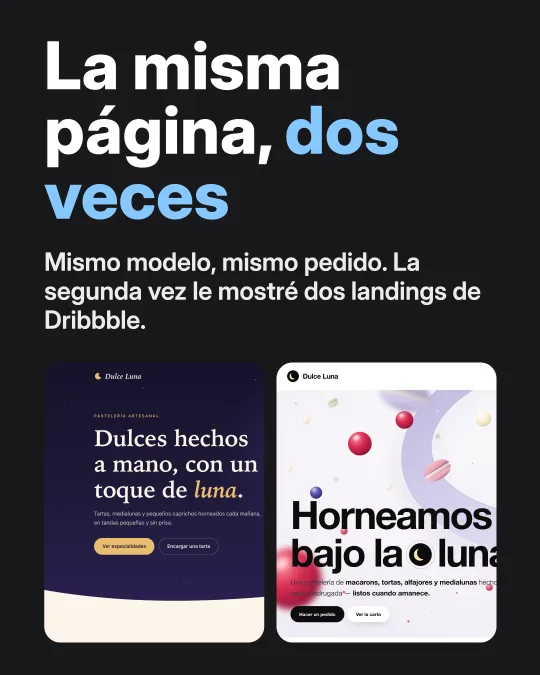
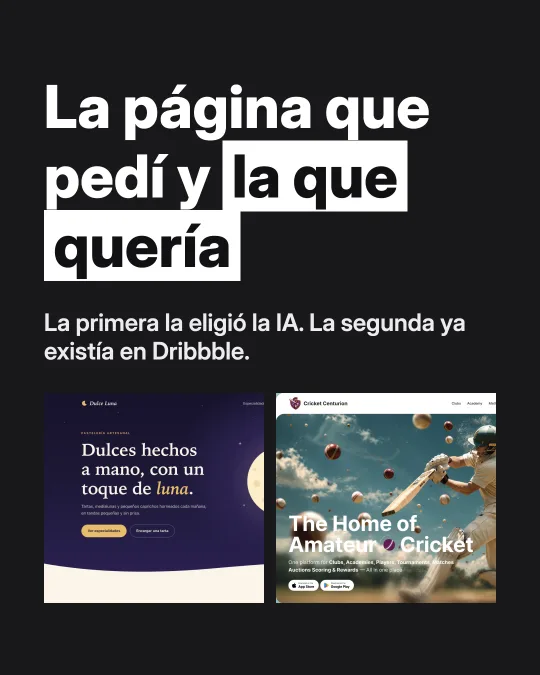
Material con el calendario del 10/11: Háblale sale el 11 a las 10:08, Primer día el 16 a las 10:12, carrusel v4 «La página que pedí y la que quería»

diff --git a/src/data/material.ts b/src/data/material.ts
@@ -30,23 +30,23 @@ export const MATERIAL: Material[] = [
   {
     slug: 'la-misma-pagina-dos-veces',
     kind: 'carrusel',
-    title: 'La misma página, dos veces',
-    summary: 'Los dos pedidos exactos y las dos páginas que salieron, para que lo pruebes con tu propio proyecto.',
+    title: 'La página que pedí y la que quería',
+    summary: 'El pedido exacto, la página que eligió la IA y la de Dribbble que yo tenía en la cabeza. Y lo que salió cuando se la mostré.',
     date: '2026-11-11T11:06:00-03:00',
     where: 'Carrusel de LinkedIn',
-    cover: { src: '/material/la-misma-pagina-dos-veces/con-referencias.webp', width: 1440, height: 900, alt: 'La página que salió cuando le mostré dos páginas de Dribbble' },
+    cover: { src: '/material/la-misma-pagina-dos-veces/con-referencias.webp', width: 1440, height: 900, alt: 'La página de Dulce Luna que salió cuando le mostré lo que quería' },
     poster: { src: '/material/la-misma-pagina-dos-veces/portada.webp', width: 540, height: 675 },
     blocks: [
-      { type: 'texto', text: 'Le pedí a Claude Fable 5.2 la página de una pastelería inventada, Dulce Luna. Mismo modelo y mismo pedido, en dos chats nuevos. La única diferencia: en el segundo le pasé capturas de dos páginas de Dribbble que me encantan y le dije qué copiar de cada una.' },
-      { type: 'pedido', label: 'Pedido 1, solo con palabras', text: 'Hazme una página web linda para mi pastelería, Dulce Luna. Un solo archivo HTML, sin imágenes externas.' },
-      { type: 'vista', title: 'Lo que salió', src: '/material/la-misma-pagina-dos-veces/con-palabras.webp', href: '/material/la-misma-pagina-dos-veces/con-palabras.html', width: 1440, height: 900, alt: 'Página morada con una luna y estrellas, elegidas por el modelo' },
-      { type: 'pedido', label: 'Pedido 2, con las capturas', text: 'Hazme una página web linda para mi pastelería, Dulce Luna. Un solo archivo HTML, sin imágenes externas. Te paso capturas de dos páginas de Dribbble que me encantan: ref1.jpg, y ref2a.png con ref2b.png (son dos momentos de la misma página, el objeto gira). Están en esta carpeta, míralas bien. De la primera copia la escena a pantalla completa con cosas que vuelan alrededor en distintas profundidades y el título enorme encima, con una tarjeta flotando al costado. De la segunda copia el objeto 3D que gira solo, el fondo limpio y los botones negros. Que se mueva como ellas. Guárdala como pagina.html en esta carpeta.' },
-      { type: 'vista', title: 'Lo que salió', src: '/material/la-misma-pagina-dos-veces/con-referencias.webp', href: '/material/la-misma-pagina-dos-veces/con-referencias.html', width: 1440, height: 900, alt: 'Página clara con un macaron que gira, dulces que vuelan alrededor, el título enorme y una caja de macarons flotando al costado' },
-      { type: 'enlaces', title: 'Las dos páginas que le mostré', links: [
-        { label: 'Cricket Centurion, de Nixtio', href: 'https://dribbble.com/shots/27839193-Cricket-Sports-Landing-Page-Design', note: 'la escena a pantalla completa y la tarjeta flotando' },
-        { label: 'IPO Gateway, de FANCY', href: 'https://dribbble.com/shots/27850249-IPO-Gateway-landing-page-web-design-3D-animation-website-icons', note: 'el objeto 3D que gira y los botones negros' },
+      { type: 'texto', text: 'Le pedí a Claude Fable 5.2 la página de una pastelería inventada, Dulce Luna. Una frase y nada más. Me dio una página linda, pero con los colores y la idea que eligió el modelo, no la que yo tenía en la cabeza.' },
+      { type: 'pedido', label: 'Lo que le pedí', text: 'Hazme una página web linda para mi pastelería, Dulce Luna. Un solo archivo HTML, sin imágenes externas.' },
+      { type: 'vista', title: 'Lo que eligió la IA', src: '/material/la-misma-pagina-dos-veces/con-palabras.webp', href: '/material/la-misma-pagina-dos-veces/con-palabras.html', width: 1440, height: 900, alt: 'Página morada con una luna y estrellas, elegidas por el modelo' },
+      { type: 'enlaces', title: 'Lo que yo quería ya existía', links: [
+        { label: 'Cricket Centurion, de Nixtio', href: 'https://dribbble.com/shots/27839193-Cricket-Sports-Landing-Page-Design', note: 'la escena a pantalla completa, cosas que vuelan y el título enorme' },
+        { label: 'IPO Gateway, de FANCY', href: 'https://dribbble.com/shots/27850249-IPO-Gateway-landing-page-web-design-3D-animation-website-icons', note: 'el objeto que gira solo y los botones negros' },
       ] },
-      { type: 'texto', text: 'Antes de pedir un diseño junto capturas de lo que me gusta y le digo qué copiar de cada una. Si no sabes explicarlo, muéstraselo.' },
+      { type: 'pedido', label: 'Se las mostré y le dije qué copiar', text: 'Hazme una página web linda para mi pastelería, Dulce Luna. Un solo archivo HTML, sin imágenes externas. Te paso capturas de dos páginas de Dribbble que me encantan: ref1.jpg, y ref2a.png con ref2b.png (son dos momentos de la misma página, el objeto gira). Están en esta carpeta, míralas bien. De la primera copia la escena a pantalla completa con cosas que vuelan alrededor en distintas profundidades y el título enorme encima, con una tarjeta flotando al costado. De la segunda copia el objeto 3D que gira solo, el fondo limpio y los botones negros. Que se mueva como ellas. Guárdala como pagina.html en esta carpeta.' },
+      { type: 'vista', title: 'Lo que salió', src: '/material/la-misma-pagina-dos-veces/con-referencias.webp', href: '/material/la-misma-pagina-dos-veces/con-referencias.html', width: 1440, height: 900, alt: 'Página clara con un macaron que gira, dulces que vuelan alrededor, el título enorme y una caja de macarons flotando al costado' },
+      { type: 'texto', text: 'Antes de pedir un diseño busco en Dribbble «landing page», me quedo con lo mejor calificado y más nuevo, y le digo qué copiar de cada una. Si no sabes explicarlo, muéstraselo.' },
     ],
   },
   {
@@ -79,7 +79,7 @@ export const MATERIAL: Material[] = [
     kind: 'video',
     title: 'El primer día de la IA más avanzada',
     summary: 'Salió Claude Fable 5.2 y lo primero que hicimos todos fue pedirle lo de siempre. Los números de verdad, aquí.',
-    date: '2026-11-11T10:05:00-03:00',
+    date: '2026-11-16T10:12:00-03:00',
     where: 'Video',
     cover: { src: '/material/primer-dia-fable/portada.webp', width: 540, height: 960, alt: 'Franco con Fable 5.2, empleado del mes, en su primer día' },
     poster: { src: '/material/primer-dia-fable/portada.webp', width: 540, height: 960 },
@@ -96,7 +96,7 @@ export const MATERIAL: Material[] = [
     kind: 'video',
     title: 'Deja de escribirle a la IA',
     summary: 'La nota de voz de 37 segundos que usé y las dos páginas que salieron, para que lo pruebes con lo tuyo.',
-    date: '2026-11-10T18:10:00-03:00',
+    date: '2026-11-11T10:08:00-03:00',
     where: 'Taller de IA',
     cover: { src: '/material/hablale/b_nota_de_voz.webp', width: 900, height: 1200, alt: 'La página de La Espiga Dorada que salió de la nota de voz' },
     poster: { src: '/material/hablale/portada.webp', width: 540, height: 960 },
